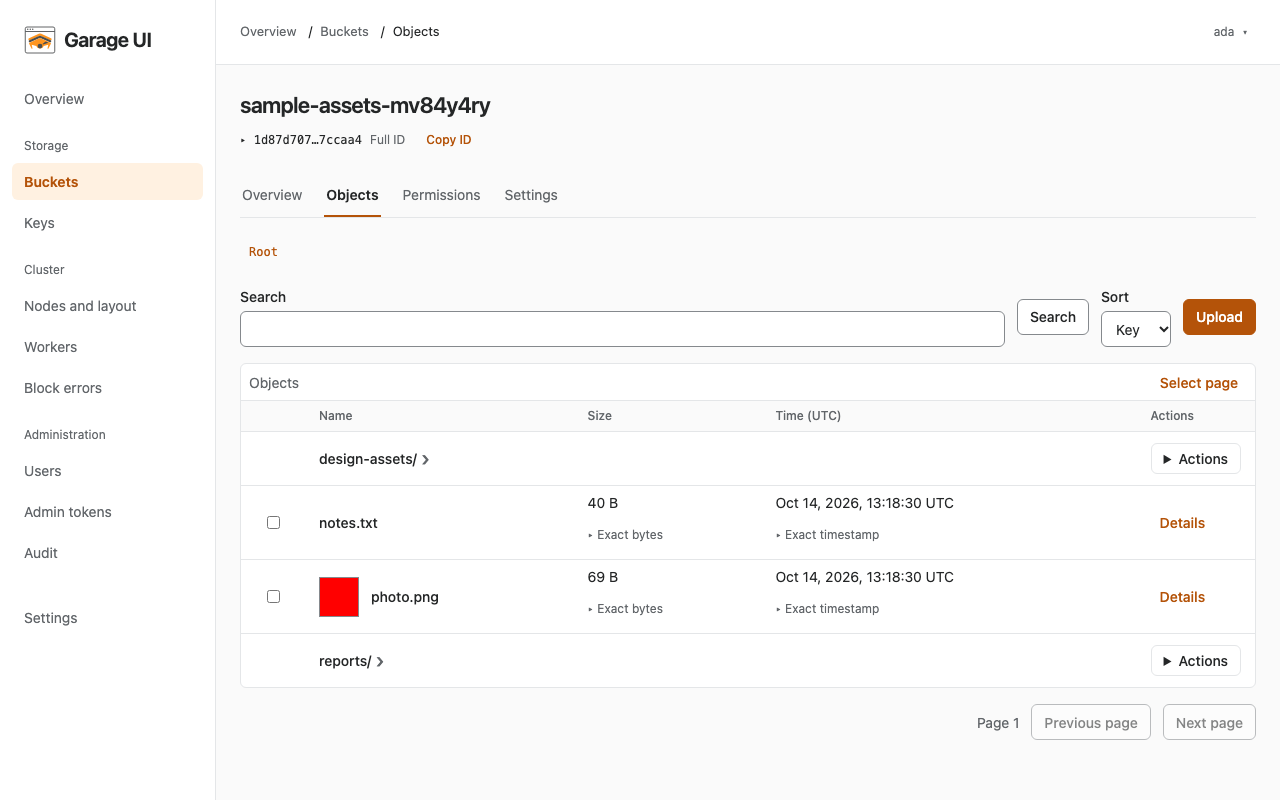
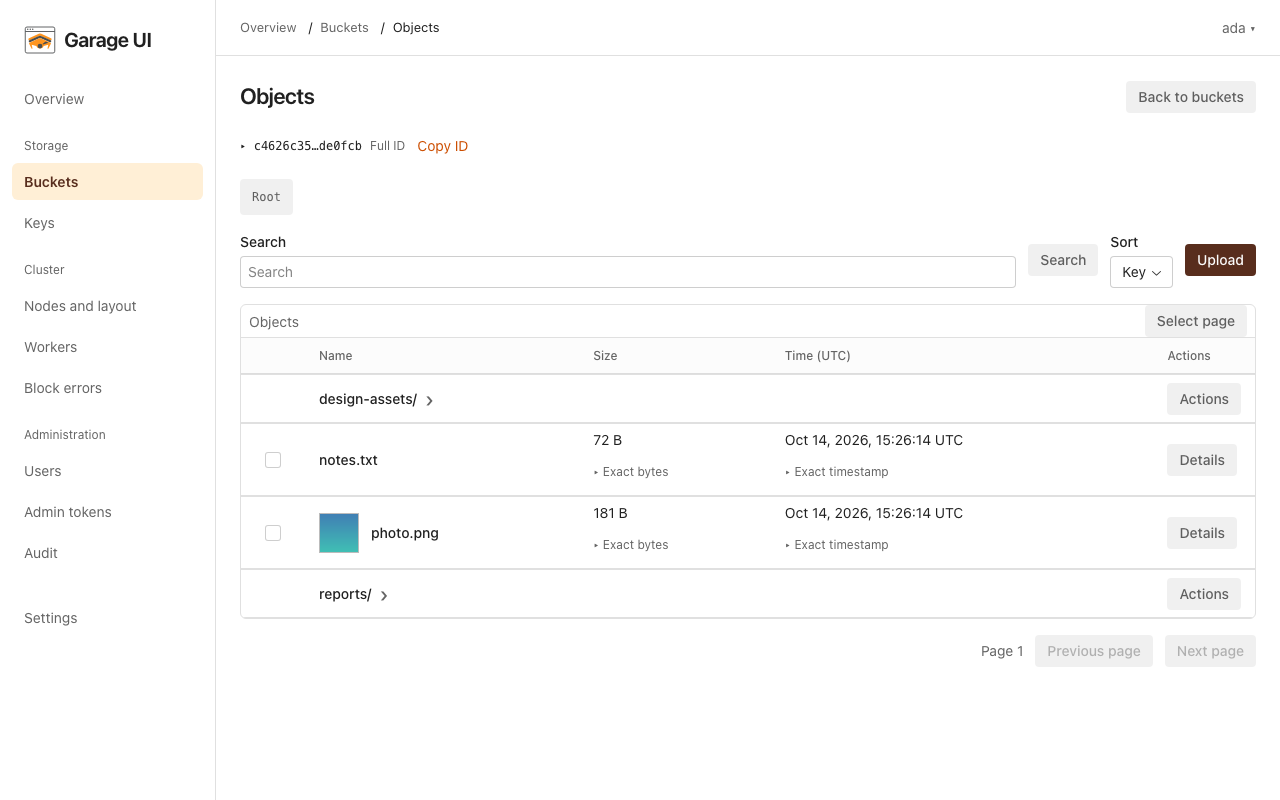
docs: show the Radix interface and record verified migration results

diff --git a/evidence/radix-migration/report.md b/evidence/radix-migration/report.md
@@ -1,0 +1,111 @@
+# Radix Themes migration evidence
+
+Verified on October 14, 2026. Product build: `a7000a8` (`20261014.2`), with the Vite frontend embedded in the Rust binary and served from one container.
+
+## Build and test results
+
+| Check | Result | Receipt |
+|---|---|---|
+| Corrected affected frontend tests | 223 passed in 6 files | `garage-ui-radix-call111-affected.log` |
+| Frontend production build | Passed | `web-build-responsive.log` |
+| Native embedded-asset build | Passed | `native-build-responsive.log` |
+| Rust formatting | Passed | `cargo fmt --all --check` |
+| Rust clippy | Passed | `clippy.log` |
+| Rust library tests | 363 passed; one timing-sensitive quota assertion failed, then its exact retry passed | `rust-tests.log`, `rust-share-focused.log` |
+| Load generator | 6 passed | `loadgen.log` |
+| Startup configuration | 1 passed | `rust-remaining.log` |
+| TLS configuration | 2 passed | `rust-tls.log` |
+| Rust documentation tests | Completed; 0 tests | `rust-doc.log` |
+| Bun dependency audit | 0 vulnerabilities across 429 packages | `bun-audit.log` |
+| Cargo dependency audit | 0 vulnerabilities; one allowed `paste` maintenance warning | `cargo-audit-verified.log` |
+| Setup wizard browser flow | 1 passed | `e2e-wizard-final.log` |
+| TLS warning browser flow | 1 passed | `e2e-tls-final.log` |
+| Public screenshot capture | 1 passed; desktop and mobile images visually reviewed | `public-capture.log`, [screenshot metadata](../../docs/images/README.md) |
+| Garage v2.3.0 browser suite | 84 passed in one full run (11.6 minutes) | `e2e-v230-final.log` |
+| Garage v2.4.1 browser coverage | 84 unique required cases have passing evidence across runs | `e2e-v241-focused.log`, `e2e-v241-remaining-verified.log`, `e2e-v241-responsive.log`, `e2e-v241-header.log` |
+
+The initial frontend run recorded 481 passes and 14 failures. The six affected files were corrected and rerun: 223 passed. This establishes the corrected affected set, rather than a second all-green full-suite run. The verified Cargo audit used the current lockfile with `rustls` 0.23.46 and the locally available advisory database (`cargo audit --no-fetch`).
+
+The Rust failure was the 200 ms quota-window assertion in `accept::share_presigns_a_question_mark_key`; an exact isolated retry passed. No second full Rust run is claimed.
+
+The final frontend build produced a 208.38 kB gzip JavaScript bundle and retained Vite’s chunk-size warning.
+
+## Container runtime
+
+Both current images were built without cache from `9688809`, whose product code is `a7000a8`; later source changes are test-only. Both use UID/GID `65532:65532` and entrypoint `/garage-ui`.
+
+| Platform | Image ID | Verification |
+|---|---|---|
+| `linux/arm64` | `453df1479a09` | Build and complete runtime gate passed |
+| `linux/amd64` | `66d4605c8037` | Build and read-only `--version` smoke passed |
+
+Build receipts: `container-build-responsive-retry-arm64.log`, `container-build-responsive-retry-amd64.log`. The arm64 runtime gate used a 256 MiB memory and swap limit with a read-only root filesystem:
+
+- Uploaded exactly 5 GiB with HTTP 201 and downloaded the same 5 GiB with HTTP 200.
+- Decoded 100 thumbnails from 4096 × 4096 px sources in an actual browser, with 100 image responses.
+- Verified that a disconnected upload left no incomplete multipart uploads.
+- Streaming a 1 GiB upload grew measured memory by 35,630,613 bytes, below the 64 MiB growth budget.
+- The container remained running with `oom_killed=false`; the temporary runtime resources were removed afterward.
+
+Receipt: `container-runtime-responsive.log`, ending with `gate=pass`. This arm64 runtime gate does not establish equivalent live execution on amd64.
+
+## Browser evidence and limits
+
+The focused run used the actual embedded application against Garage v2.4.1. Mobile controls were checked against a minimum 36 px interactive hit area and 16 px input text. Radix TextField wrapper presses were verified to focus their input; geometry and screenshots waited for finite visible animations to finish. Record rows retained positive-height and scroll-container visibility assertions.
+
+Garage v2.4.1 now has passing evidence for all 84 required cases: 7 focused passes; an initial 77-case run with 60 passes and 17 failures; a 38-case affected retake with 36 passes and 2 failures; then both exact remaining retakes passed. This is combined passing coverage, not one clean 84-case run. Garage v2.3.0 passed all 84 cases in one full run. Viewport coverage included 360, 390, 768, and 1280 px widths; the suites exercised English and Simplified Chinese, Light and Dark themes, video Range responses and seeking, ZIP download, and deletion. The separate setup wizard and TLS warning suites each passed one browser flow. Public screenshots capture product `a7000a8` at 1280 × 800 and 360 × 800 px, with a 390 × 800 px check. The mobile capture shows both folders and both objects on the first screen. Disposable sample files, their bucket, and their key were cleaned up after the successful capture. Mobile results refer to CSS viewports in a desktop browser, rather than a physical phone.
+
+Destructive cluster maintenance was inspected through its confirmation and cancellation paths; live repair or destructive maintenance execution is outside this evidence.
+
+## Large-catalog performance
+
+The native embedded product `a7000a8` was measured with 10,000 real buckets and 100,000 zero-byte text objects. Each of three runs per list used a fresh authenticated Chromium context at 1280 × 800 px. Timing ran from navigation start to the first visible data row; the threshold remained 2,000 ms.
+
+| List | Catalog size | Runs | Slowest first row |
+|---|---|---|---|
+| Buckets | 10,000 | 3 | 685.3 ms |
+| Objects | 100,000 | 3 | 253.7 ms |
+
+All six runs rendered 100 rows, made one request to the measured list, made no per-object requests, reported no browser errors, and served identical asset hashes. Upstream logs recorded exactly three S3 list requests across the three object-list runs. The gate returned `pass=true`.
+
+This was a local loopback test; it does not measure remote-network latency or physical-phone performance. Receipts: `results.json`, `counts.json`, and `performance-measure-final.log`; measurement script revision: `c473e9b`. The owned performance fixture containers and volumes were cleaned up and their final inventories were empty (`performance-cleanup-final.log`).
+
+## Remaining recommendations
+
+These nine existing source-audit recommendations remain open; this migration does not establish a defect-free repository. They were not freshly reproduced at runtime here.
+
+| Priority | Finding | Follow-up |
+|---|---|---|
+| P1 | Failed S3 endpoint probes remain cached until restart | Expire failed probes and verify recovery without restarting |
+| P2 | Credential locking spans complete uploads | Release the cache lock before network I/O |
+| P2 | ZIP stream failures end as HTTP success | Propagate archive-production failures through the response body |
+| P2 | All-node normalization discards individual failures | Preserve mixed and all-failed outcomes |
+| P2 | Rejected upstream mutations are audited as successful | Derive audit outcome from upstream status and partial outcomes |
+| P2 | Catalog cursors survive mutations and refreshed boundaries | Invalidate stale pagination boundaries |
+| P2 | Audit CSV permits spreadsheet-formula prefixes | Neutralize formula-leading exported cells |
+| P2 | Audit pagination and export buffer matched history | Paginate in SQL and stream exports |
+| P2 | Docker-derived artifacts lack source identity | Pass and verify an explicit source-commit build input |
+
+An approximately seven-second retry delay for an unconfigured bucket key was also observed and remains a separate usability follow-up.
+
+## Reproducing the checks
+
+Run frontend build and affected tests from `web/`, Rust checks from the repository root, and the documented Playwright suites against isolated Garage test instances. Each browser suite creates a fresh UI data directory. Public capture fixtures must be disposable and cleaned up after capture.
+
+```sh
+cd web
+bun run build
+bun run test
+bun audit
+GARAGE_VERSION=v2.4.1 bun run test:e2e
+GARAGE_VERSION=v2.3.0 bun run test:e2e
+```
+
+Run the Rust commands from the repository root:
+
+```sh
+cargo fmt --all --check
+cargo clippy --workspace --all-targets -- -D warnings
+cargo test --workspace
+cargo audit --no-fetch
+```

diff --git a/docs/images/README.md b/docs/images/README.md
@@ -1,10 +1,10 @@
 # README screenshots
 
-These are actual Garage UI browser captures from October 14, 2026, connected to a local test Garage v2.4.1 instance. The captured build is commit `a6382e0`. The sample bucket and four stored files are synthetic fixtures: `notes.txt`, `photo.png`, `reports/weekly.csv`, and `design-assets/palette.txt`.
+These are actual Garage UI browser captures from October 14, 2026, connected to a local test Garage v2.4.1 instance. The captured build is commit `a7000a8`. The sample bucket and four stored files are synthetic fixtures: `notes.txt`, `photo.png`, `reports/weekly.csv`, and `design-assets/palette.txt`.
 
 | Image | Viewport | View |
 |---|---|---|
 | `objects-desktop.png` | 1280 × 800 px | Object browser on desktop |
 | `objects-mobile.png` | 360 × 800 px | Object browser with two folders and two objects fully visible on the first screen |
 
-The same fixture was also checked at 390 × 800 px. Captures use the English locale and Light theme. The original PNG files were copied without content edits or recompression; the sample objects, bucket, and key were deleted after capture. The mobile image is displayed at 240 px wide in the project README. Captures contain no credentials, loading or error notices, or private cluster addresses.
+The captures use desktop-browser CSS viewports; no physical-phone run is claimed. The public capture test passed, and the same fixture was also checked at 390 × 800 px. Captures use the English locale and Light theme. The original PNG files were copied without content edits or recompression; the sample objects, bucket, and key were deleted after capture. The mobile image is displayed at 240 px wide in the project README. Captures contain no credentials, loading or error notices, or private cluster addresses.
